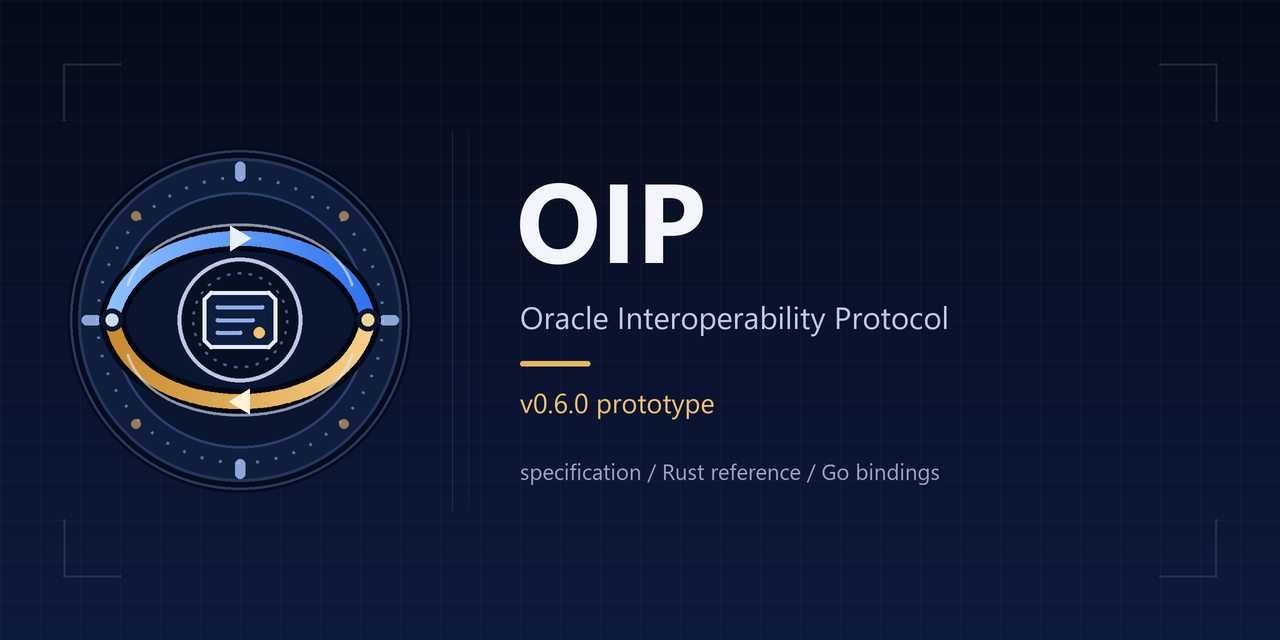
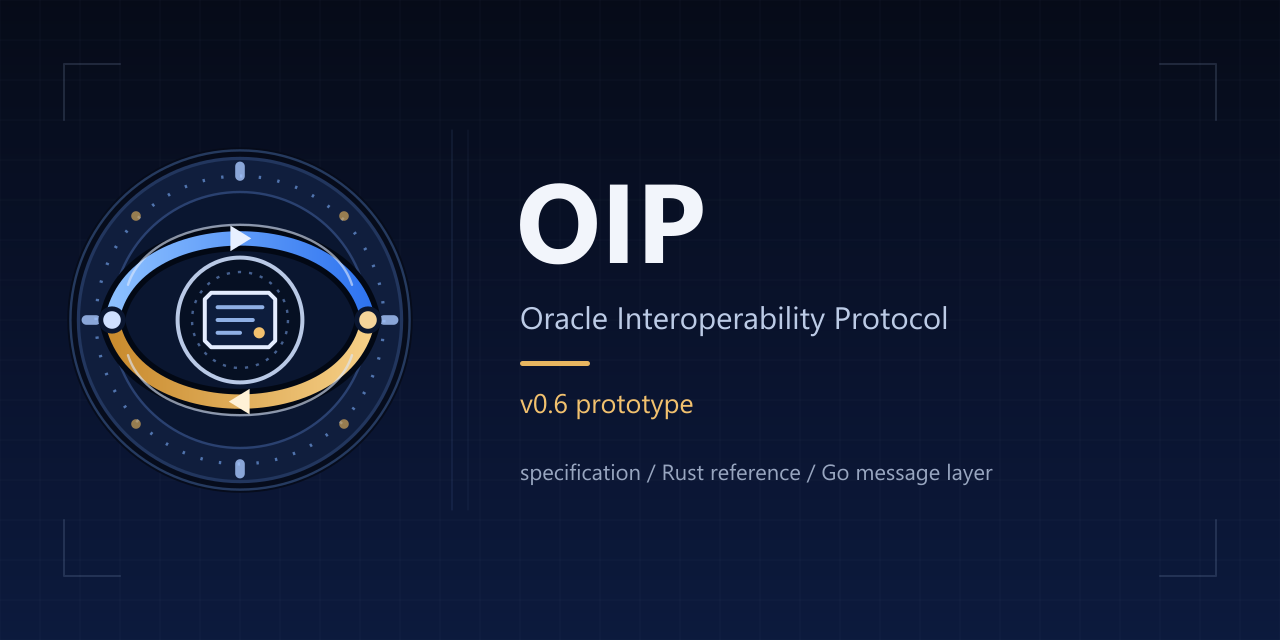
Bring the OIP public documents in line with v0.6.2
Describe the threshold signature comparison in tests/threshold-raw.md and
link it from the README, list the threshold specification in the document
tables, and name all three model locks in the contribution guide.

Point the support page and the issue links to the v0.6 documentation, add
threshold group selection and quorum checks to the security scope, and
replace stale version and count statements in the disclaimer, the test notes
and a specification header. The social preview now reads v0.6 and Go message
layer. CITATION records the release date and the changelog links each
version to its release.

diff --git a/spec/v0.5-correspondence.md b/spec/v0.5-correspondence.md
@@ -64,7 +64,7 @@ defines the registration, format and receiver checks.
 | Recipient sets, multi-target broadcast and relays that change processing | The reference applies one authenticated local delivery to the signed target. A linked authorized transformation is required when a hop changes processing. This version defines single-hop delivery. The routing table, network dissemination and selection of a destination belong to the configured host. | [Version coexistence](wire-conformance.md#version-coexistence) |
 | Priority escalation, CRITICAL hierarchy and jurisdiction | Priority and atomicity are signed. Scheduling priorities are a host policy. The core requires current privileged authority and ALL_OR_NOTHING for CRITICAL, which the reference profile does not grant. A multi-level registry or jurisdiction hierarchy is a distinct policy design. | [Canonical signed message](wire-conformance.md#canonical-signed-message), [Refusal precedence](wire-conformance.md#refusal-precedence) |
 | Interval, backoff, dead-letter queue, alerts and slashing | The protocol specifies which outcomes consume the call identifier, what is known about the effect and how to resolve or retry. Scheduling a retry, storing work in a dead-letter queue, alerting and determining sanctions belong to the host or its authority registry. | [Effect and retry by code](wire-conformance.md#effect-and-retry-by-code) |
-| Native driver and alternate signature schemes | Version 6 uses SINGLE Ed25519 and configured THRESHOLD verification of an ordered list of Ed25519 signatures from a current group. A future scheme can define the v0.5 BLS aggregate encoding when a consumer requires it. ECDSA retains its later-version disposition. | [Threshold envelope signatures](threshold-signatures.md) |
+| Native driver and alternate signature schemes | Version 6 uses SINGLE Ed25519 and configured THRESHOLD verification of an ordered list of Ed25519 signatures from a current group. The v0.5 BLS aggregate encoding and ECDSA have no verifier or wire encoding in this version. | [Threshold envelope signatures](threshold-signatures.md) |
 | Expiring restrictions, scheduled execution or cancellation, liquidation variables and AuthorityClaim | The typed regulatory operations and spend forms define their own authoritative effects, authorization and cut. The additional v0.5 parameters have no operands in these layouts. An authorized UNFREEZE may implement a host's expiration policy. | [Regulatory execution](regulatory-execution.md), [Operations](operations.md) |
 | Conditions and staged broadcast | There is no general condition expression or phase broadcast payload. Product prerequisites are the typed checks of a particular operation, and finality and retry are expressed through retained authoritative outcomes. | [Operations](operations.md), [Authoritative outcomes](authoritative-outcomes.md) |
 

diff --git a/tests/threshold-raw.md b/tests/threshold-raw.md
@@ -1,0 +1,41 @@
+# THRESHOLD signature comparison
+
+`scripts/check-threshold-raw.py` compares the pinned THRESHOLD signature-step
+model with the configured Rust and Go receivers on the 22 raw Packets in
+[`vectors/threshold-raw/input.jsonl`](vectors/threshold-raw/input.jsonl).
+The model takes the recorded Ed25519 results in
+[`primitive-observations.jsonl`](vectors/threshold-raw/primitive-observations.jsonl)
+(22 rows) and [`key-observations.json`](vectors/threshold-raw/key-observations.json)
+(3 keys) as inputs. Rust and Go run their own verifiers on the same bytes.
+CI runs the comparison in the Go job of [`tests.yml`](../.github/workflows/tests.yml):
+
+```bash
+python3 scripts/check-threshold-raw.py --polyml target/polyml-userspace/bin/poly --output target/threshold-raw
+```
+
+The threshold identity returns six ASCII fields. The final field is the
+`runtime_source_hash` in [the threshold lock](threshold-raw-artifact.lock.json),
+which the typed transport and full response locks share.
+
+```text
+1
+intinf-threshold-raw-v1
+wire-v6-threshold-raw-observed-primitives
+OIP_Threshold_Raw_ABI.threshold_raw_packet
+HOL-Library.Code_Target_Nat
+<runtime source fingerprint>
+```
+
+The lock pins the model, driver, origin and diagnostics files by Git blob and
+SHA-256, and the three input files by SHA-256 and row count.
+
+The check fails when the case order or coverage differs, when either
+implementation reports Packet bytes other than the input, when the Rust or Go
+signature step differs from the model, or when the attestation call, the
+retained transport binding or the transport outcome differs from the replay
+rule for these inputs. For an accepted Packet the model's result also fixes
+the selected group, the signer identifiers, the Core and the signing preimage.
+
+A pass is bounded evidence on these inputs. Ed25519 enters the model as
+recorded results, so the comparison does not establish the Ed25519 primitive
+or general implementation refinement.

diff --git a/CONTRIBUTING.md b/CONTRIBUTING.md
@@ -108,9 +108,10 @@ downloads dependencies.
   `python3 scripts/generate-wire.py --protoc /path/to/protoc --go-plugin /path/to/protoc-gen-go`.
 - After changing `spec/operations.json`, regenerate the name view with
   `python3 scripts/render-operations.py`.
-- Each vector file in `tests/vectors/` has a `.sha256` file in the `sha256sum`
-  format. Tests and checksums refer to existing files by name, so new cases
-  go in a new file with its own checksum.
+- Checksum files in `tests/vectors/` use the `sha256sum` format. The inputs
+  of the model comparisons are pinned by their lock files or the runtime
+  source list instead. Tests and checksums refer to existing files by name,
+  so new cases go in a new file with its own checksum or pin.
 
 ## Changes that affect the pinned models
 
@@ -122,11 +123,12 @@ every file in `src/`, `examples/` and `go/`, the Python modules in `scripts/`,
 and named files that include the Cargo manifests, `proto/oip.proto`,
 `spec/operations.json`, the comparison inputs in `tests/` and the pinned
 Poly/ML package in `tools/`. A pull request that changes one of these files,
-including a Rust or Go dependency update, fails the Tests result check until a
-model with the new fingerprint is exported and pinned in
-`tests/model-artifact.lock.json`. Say in the pull request that the change
-needs a new export. Documentation and other files outside the list do not
-affect the models.
+including a Rust or Go dependency update, fails the Tests result check until
+the models with the new fingerprint are exported and pinned again in all three
+locks: `tests/model-artifact.lock.json`, `tests/wire-response-artifact.lock.json`
+and `tests/threshold-raw-artifact.lock.json`. Say in the pull request that the
+change needs a new export. Documentation and other files outside the list do
+not affect the models.
 
 For the same reason, Dependabot opens pull requests for Rust and Go
 dependencies only for security updates

diff --git a/tests/reference-execution.md b/tests/reference-execution.md
@@ -17,8 +17,8 @@ trust boundaries.
 | --- | --- | --- |
 | Transport | 180 fixed plus 512 seeded inputs covering admission, retained and re-encoded Core, typed values, signing preimages and transport keys | The independently pinned typed wire export and identity |
 | Finite financial slice | Two genesis seeds plus six raw Reserve/Dispatch/Debit steps; original selector, credential/payer, produced financial result and commit projections | A same-source `finite-financial-raw-slice-v1` export and identity |
-| Reference replay | Fifteen input rows: two genesis rows and thirteen external stimuli | Full executable model and input-only consumer ABI are not yet received |
-| Same-cut regression | Three separate rows: one genesis, duration-zero refusal and a normal Reserve using the same signed cut | Paired current-service model and consumer ABI are not yet received |
+| Reference replay | Fifteen input rows: two genesis rows and thirteen external stimuli | No full executable model or input-only consumer ABI is pinned for this interface |
+| Same-cut regression | Three separate rows: one genesis, duration-zero refusal and a normal Reserve using the same signed cut | No paired current-service model or consumer ABI is pinned for this interface |
 | Signed response | Eighteen fixed positive, semantic-negative and Query precedence cases using the actual signer and public admission API | Source-only regression; the separate sender/current-client comparison is specified in [full-response-consumer.md](full-response-consumer.md) |
 
 The original fifteen-row input file is preserved byte-for-byte. The replay

diff --git a/README.md b/README.md
@@ -170,7 +170,7 @@ three ways:
     packets: the verdict, the selected group, the signers, the Core and the
     signing preimage. The attestation and binding effects of these packets
     are checked separately, against a fixed rule in the comparison script
-    ([threshold comparison](scripts/check-threshold-raw.py)).
+    ([threshold comparison](tests/threshold-raw.md)).
 
 In the other direction,
 [`consumer-binding.json`](https://github.com/Oraclizer/formal-verification/blob/main/Oracle_Interoperability_Protocol/consumer-binding.json)
@@ -236,6 +236,7 @@ establish:
 | [Response code allocation](spec/response-code-extension.md) | Assignments, compatibility and retry rules for new results |
 | [Lock and finality rules](spec/lock-finality.md) | Lock ownership, source attestations, pending amounts and terminal evidence |
 | [Identity and ownership handover](spec/identity-handover.md) | Caller and endpoint identity, Ed25519 reference keys, owner and session handover |
+| [Threshold envelope signatures](spec/threshold-signatures.md) | Current group selection, the scheme 2 signature field, admission and retries |
 | [Persistence and recovery](spec/persistent-recovery.md) | Durable commits, the etcd control transport, archive selection, retained results and unresolved effects |
 | [Outcomes and publication](spec/authoritative-outcomes.md) | Call identity and completion, consumption of original events, publication and settlement |
 | [Current and historical reads](spec/current-and-historical-reads.md) | Current and historical observations |

diff --git a/SECURITY.md b/SECURITY.md
@@ -2,13 +2,13 @@
 
 ## Current status
 
-OIP v0.6.0 is an unaudited, prototype-stage specification draft with
+OIP is an unaudited, prototype-stage specification draft with
 reference code. No deployed instance, fork, operator, key-management process
 or downstream integration is covered by this policy.
 
 | Version | Security support |
 | --- | --- |
-| `main` and v0.6.0 | Reports accepted for evaluation |
+| `main` and the latest release | Reports accepted for evaluation |
 | Earlier drafts, forks and modified copies | Unsupported |
 | Deployments | Unsupported |
 
@@ -47,7 +47,8 @@ Security-sensitive surfaces include:
 
 - message decoding, field order and encoding uniqueness, and the handling of
   unknown fields and versions;
-- signing inputs, Ed25519 verification and the selection of keys and scopes;
+- signing inputs, Ed25519 verification, threshold group selection and quorum
+  checks, and the selection of keys and scopes;
 - message lifetime, duplicate detection and the results returned to retries;
 - authorization of operations, locks, handover and regulatory steps;
 - recovery of recorded outcomes after a timeout or a crash;

diff --git a/DISCLAIMER.md b/DISCLAIMER.md
@@ -18,11 +18,12 @@ reach the same decisions on the vector frames.
 The hosted runs also compare the code with formal models. Rust, Go and a
 typed transport model exported from the Isabelle/HOL theories in
 [Oraclizer/formal-verification](https://github.com/Oraclizer/formal-verification/tree/main/Oracle_Interoperability_Protocol)
-agree on 692 transport inputs, and Rust and the exported full response model
-agree on 261 response inputs. The model files are pinned by SHA-256 and Git
-blob. The theorems about those models hold under the assumptions they name;
-the [README](README.md#formal-verification) describes how the two
-repositories connect.
+agree on 692 transport inputs, Rust and the exported full response model
+agree on 261 response inputs, and Rust, Go and the exported threshold
+signature model agree on 22 THRESHOLD packets. The model files are pinned by
+SHA-256 and Git blob. The theorems about those models hold under the
+assumptions they name; the [README](README.md#formal-verification) describes
+how the two repositories connect.
 
 ## What this repository does not establish
 

diff --git a/spec/conformance.md b/spec/conformance.md
@@ -23,6 +23,7 @@ The reference profile is the configuration of the Rust reference implementation 
 | [authoritative-outcomes.md](authoritative-outcomes.md) | Call identity, outcomes and publication |
 | [current-and-historical-reads.md](current-and-historical-reads.md) | Current and historical observations |
 | [identity-handover.md](identity-handover.md) | Caller identity and ownership handover |
+| [threshold-signatures.md](threshold-signatures.md) | Threshold group selection, signature field and admission |
 | [lock-finality.md](lock-finality.md) | Locks, pending mass and terminal evidence |
 | [state-commitment-sync.md](state-commitment-sync.md) | Operation additions, state synchronization and binary source attestations |
 | [response-code-extension.md](response-code-extension.md) | Response code assignments, compatibility and retry |

diff --git a/tests/full-response-consumer.md b/tests/full-response-consumer.md
@@ -21,9 +21,9 @@ HOL-Library.Code_Target_Nat
 `code_response_full_model_identity ()` is a separate fixed constant helper.
 The lock's `identity_function` must match this function and its paired
 entrypoint; the independent origin repeats both. The typed wire judge retains
-its distinct `code_typed_model_identity ()`/typed-entry pair. No public commit,
-self-content hash, runtime PASS or caller-supplied fingerprint enters either
-model identity.
+its distinct `OIP_Wire_Oracle_V061.sync_v061_typed_model_identity ()`/typed-entry
+pair. No public commit, self-content hash, runtime PASS or caller-supplied
+fingerprint enters either model identity.
 
 ## Independent request execution
 

diff --git a/tests/vectors/wire-operations.md b/tests/vectors/wire-operations.md
@@ -37,7 +37,8 @@ retained bytes, not only the number of stored keys.
 `id`, `family`, `opcode`, `reference_accepts`, `seed` and `expected` are test
 metadata and must not be inputs to a proof-model decision. The normal
 transport receiver accepts every negotiated operation; the reference
-configuration's 25-operation filter is checked separately against the table.
+configuration's operation filter (28 of the 33 operations when both
+commitment operations are enabled) is checked separately against the table.
 
 The fixed cases specify their expected outcomes in the generator. The random
 cases retain the agreed Rust/Go outcomes as regression data. Agreement between

diff --git a/tests/wire-values.md b/tests/wire-values.md
@@ -41,8 +41,8 @@ The new model entry is
 `OIP_Wire_Oracle_V061.sync_v061_nested_transport_flat`. Its eight outputs are status,
 binding presence/bytes, summary presence, typed IR, canonical Core bytes,
 signing-preimage bytes and transport-key IR. The driver calls the distinct
-`code_typed_model_identity ()`; the earlier accept/binding ABI and its identity
-cannot approve this interface.
+`OIP_Wire_Oracle_V061.sync_v061_typed_model_identity ()`; the earlier
+accept/binding ABI and its identity cannot approve this interface.
 
 The semantic identity has six fields: schema `1`, ABI
 `intinf-wire-values-v2`, scope `wire-v6-general-33-values`, the typed entrypoint,

diff --git a/tests/model-artifact.md b/tests/model-artifact.md
@@ -118,7 +118,8 @@ separate from the normal wire release condition.
 ## Typed value ABI
 
 The typed interface is described in [wire-values.md](wire-values.md).
-It uses `code_typed_model_identity ()`, not the old accept-only identity.
+It uses `OIP_Wire_Oracle_V061.sync_v061_typed_model_identity ()`, not the old
+accept-only identity.
 The exact typed values/core/preimage/key must all be produced by the exported
 model. A verdict/binding-only model output is incomplete metadata.
 The bound `public_namespace`, content and source pins identify the checked
